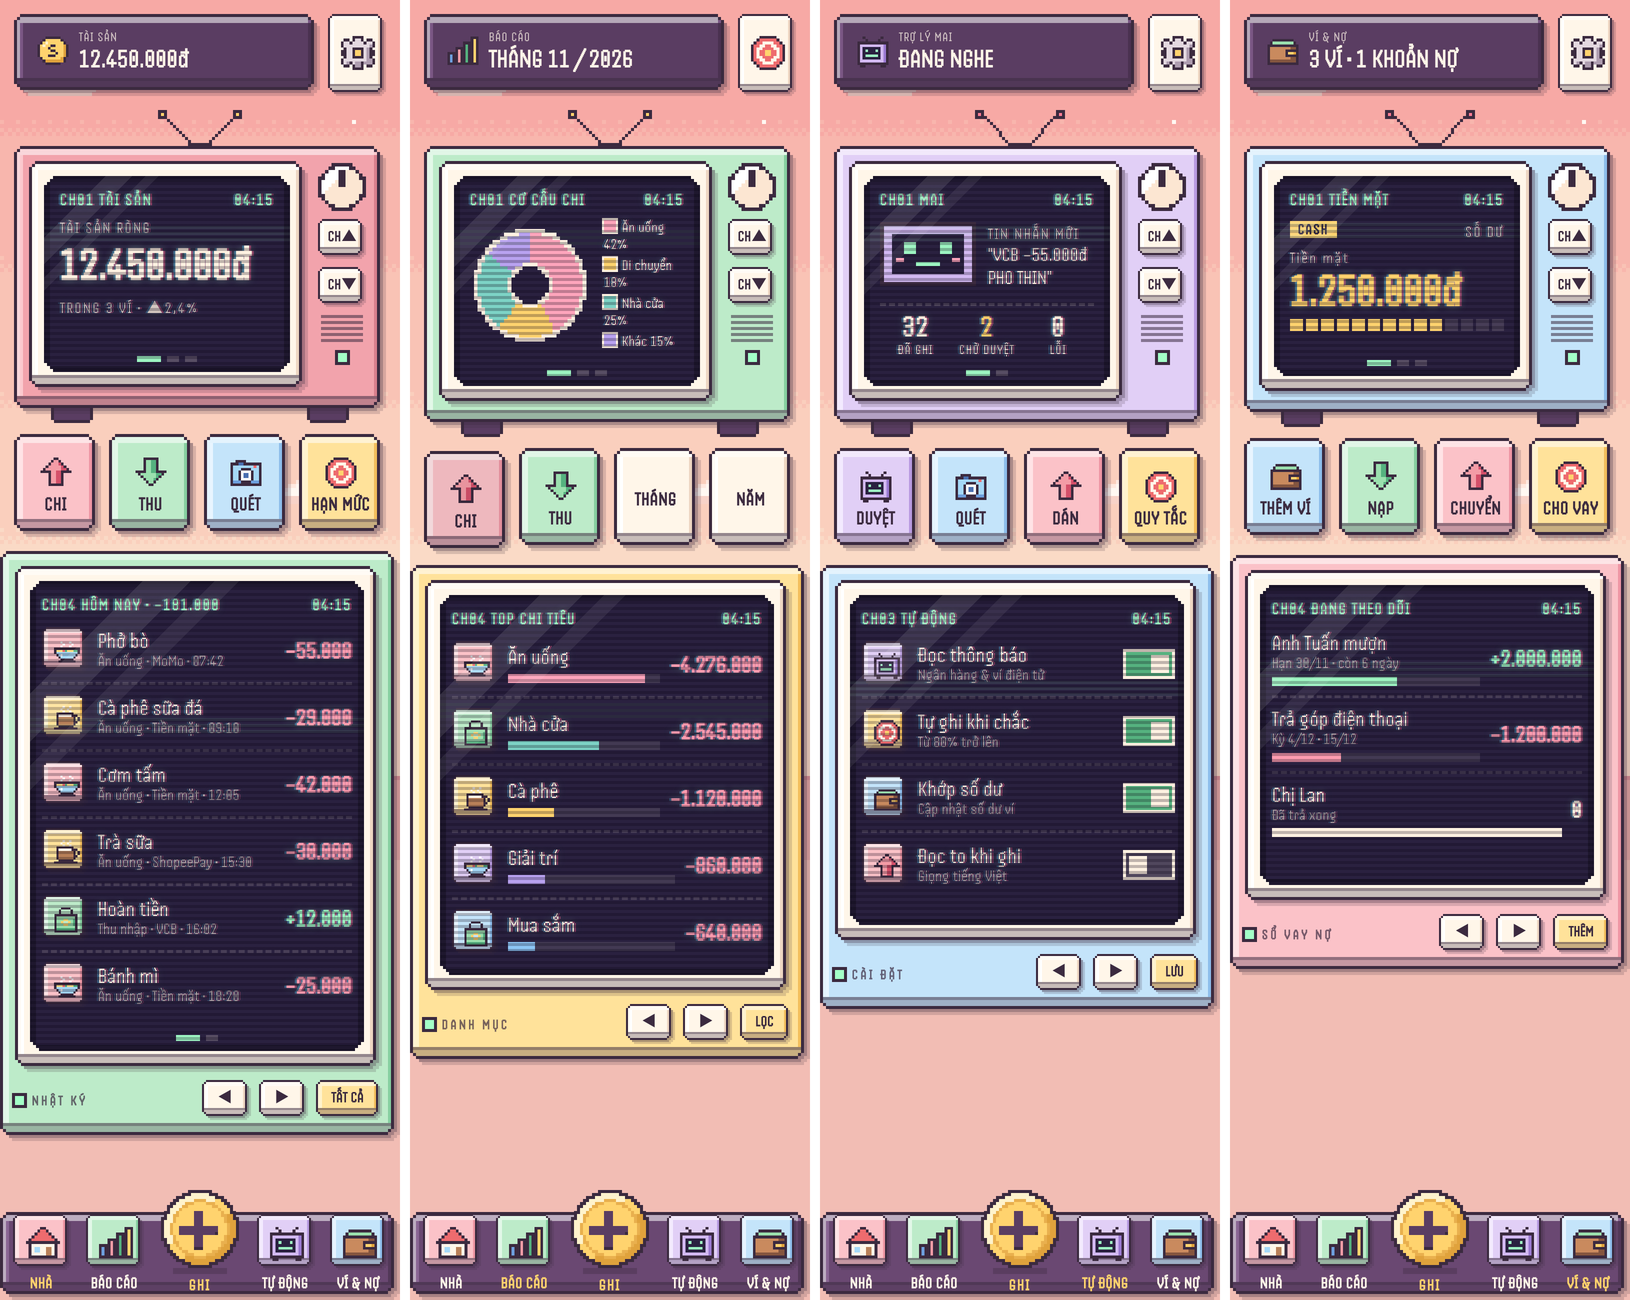
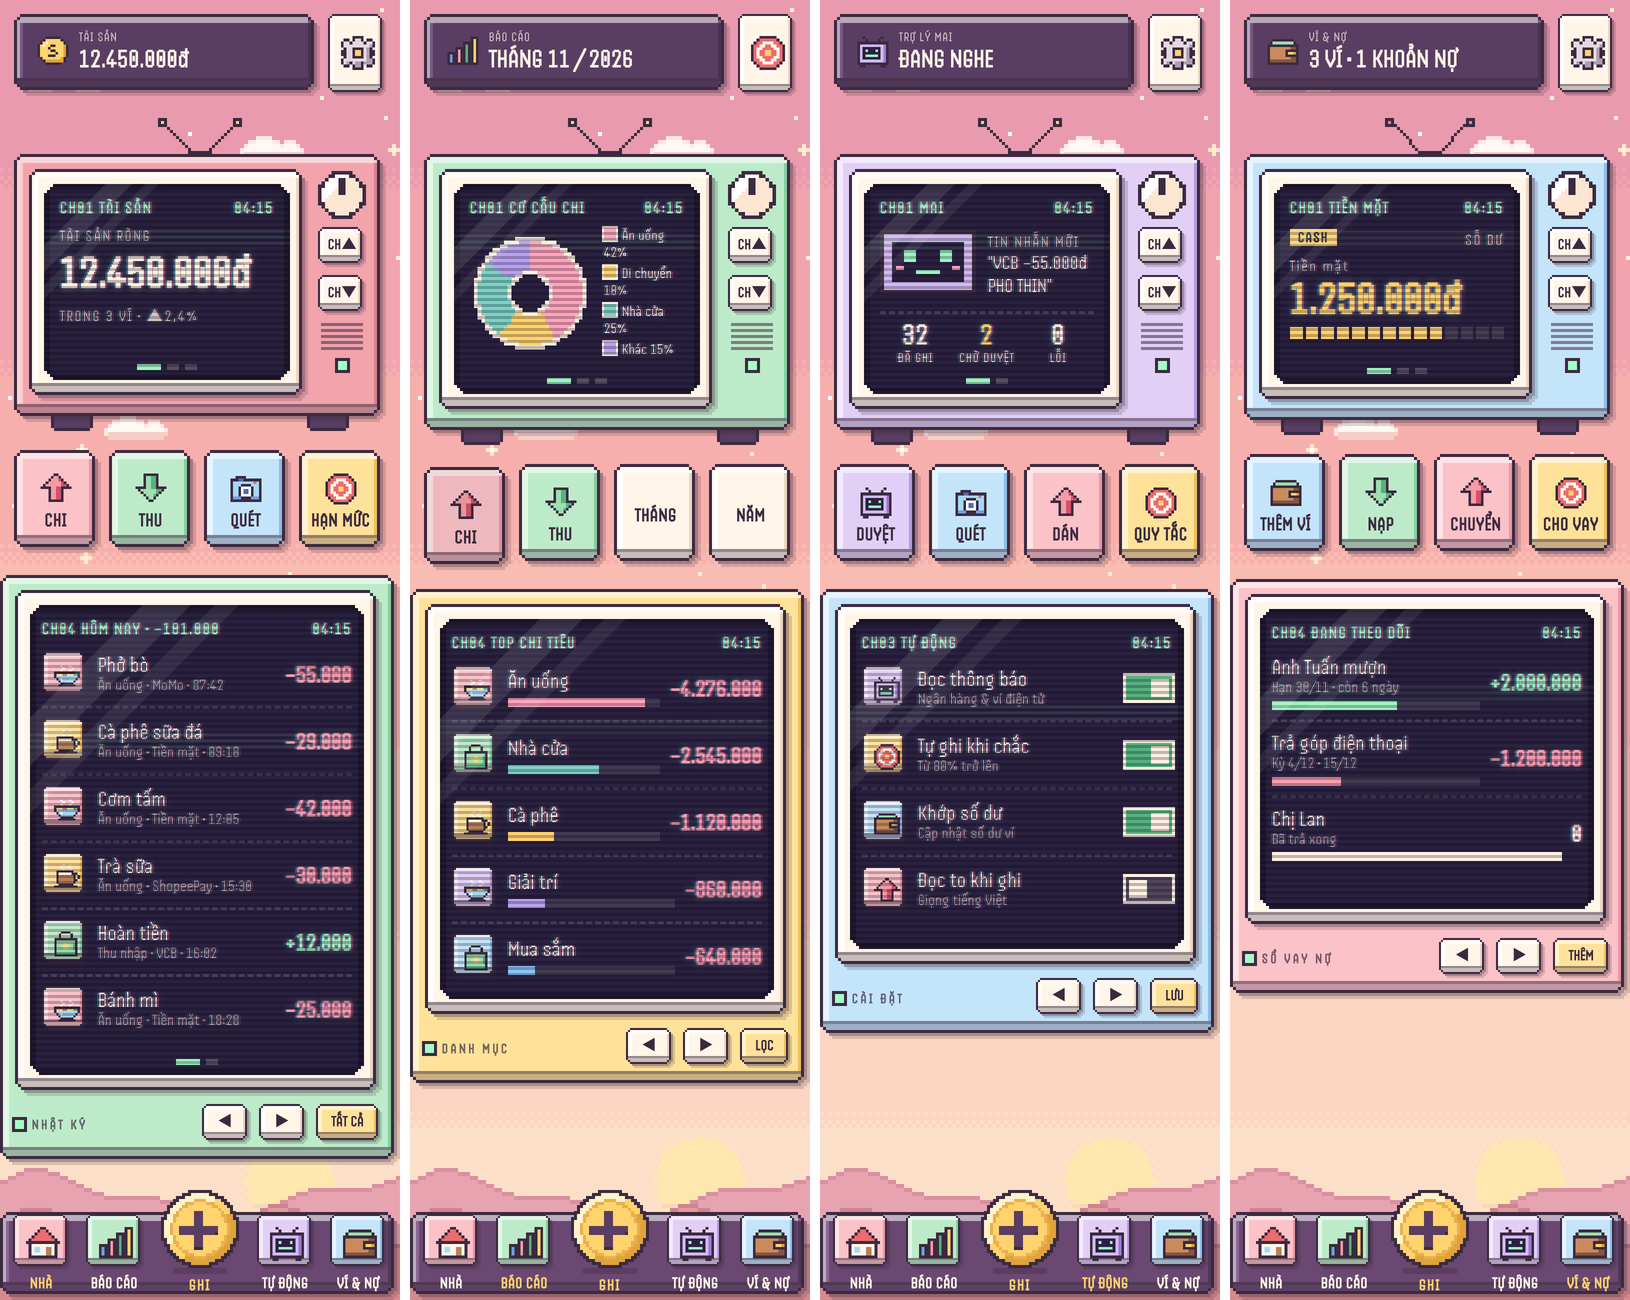
Pixel UI mockup: animated sky with layered drifting clouds, twinkling stars, shooting star, birds, sunset sun and 3-layer hills
Claude-Session: https://claude.ai/code/session_01FJNvN5z83tJBi6FoMbuiCK

diff --git a/design/pixel-ui/mock.html b/design/pixel-ui/mock.html
@@ -13,8 +13,8 @@
 *{box-sizing:border-box;margin:0;padding:0}
 html,body{background:#F2BDB4}
 body{font-family:Handjet,system-ui,sans-serif;color:var(--ink);font-size:20px;width:400px;min-height:1300px;position:relative;overflow:hidden;letter-spacing:.02em}
-#sky{position:absolute;inset:0;z-index:0;image-rendering:pixelated}
-.app{position:relative;z-index:1;padding:14px 14px 130px;display:flex;flex-direction:column;gap:14px}
+#sky{position:absolute;left:0;top:0;z-index:0;image-rendering:pixelated}
+.app{position:relative;z-index:1;padding:14px 14px 130px;display:flex;flex-direction:column;gap:22px}
 .px{border-style:solid;border-width:calc(var(--S)*5) calc(var(--S)*6) calc(var(--S)*7) calc(var(--S)*5);border-image-slice:5 6 7 5 fill;border-image-repeat:stretch;image-rendering:pixelated}
 .row{display:flex;align-items:center;gap:8px}
 .ico{width:calc(var(--S)*12);height:calc(var(--S)*12);image-rendering:pixelated;flex:none}
@@ -214,22 +214,6 @@ document.querySelectorAll("img[data-i]").forEach(el=>{
  c.fillStyle="#5A3D62";c.fillRect(12,7,3,13);c.fillRect(7,12,13,3);
  c.fillStyle="#3B2A3F";c.fillRect(12,19,3,1);c.fillRect(19,14,1,1);c.fillRect(7,15,5,0);
 })();
-// ---------- Bầu trời: dải màu + dithering + mây + đồi (vẽ mới) ----------
-(function(){const cv=document.getElementById("sky"),g=cv.getContext("2d"),W=100,H=215;
- const bands=["#F7A9A5","#F8B6AD","#F9C3B5","#FACFBD","#FADAC6"];
- const bh=34;
- for(let y=0;y<H;y++){const b=Math.min(bands.length-1,Math.floor(y/bh)),t=y%bh;
-  for(let x=0;x<W;x++){let c=bands[b];
-   if(t>=bh-4&&b<bands.length-1&&((x+y)%2===0)&&(t>=bh-2||x%4===0))c=bands[b+1];
-   g.fillStyle=c;g.fillRect(x,y,1,1)}}
- const cloud=["....wwww..........","..wwhhhhww...www..",".whhhhhhhhwwwhhhw.","whhhhhhhhhhhhhhhhw","wsssssssssssssssss",".ssssssssssssssss."];
- const cc={w:"#FFE9E0",h:"#FFF8F2",s:"#F7D2C8"};
- [[6,18],[60,44],[24,80],[70,120]].forEach(([ox,oy])=>cloud.forEach((r,y)=>[...r].forEach((ch,x)=>{if(cc[ch]){g.fillStyle=cc[ch];g.fillRect(ox+x,oy+y,1,1)}})));
- g.fillStyle="#FFF8F2";[[40,10],[88,30],[15,58],[92,96],[50,150]].forEach(([x,y])=>{g.fillRect(x,y,1,1)});
- for(let x=0;x<W;x++){const h=Math.round(6+4*Math.sin(x/9)+2*Math.sin(x/4));for(let y=H-h-20;y<H;y++){g.fillStyle=y===H-h-20?"#D98F94":"#E8A9A5";g.fillRect(x,y,1,1)}}
- cv.style.width="400px";cv.style.height="860px";
-})();
-
 // ---------- TV CRT pixel dùng chung cho mọi mục (vẽ mới) ----------
 function decorate(root){
   root.querySelectorAll("[data-f]").forEach(el=>{
@@ -387,5 +371,41 @@ const _build=buildTV;
 buildTV=function(el,cfg){if(cfg.after){cfg.ch=cfg.ch.map(f=>()=>{setTimeout(cfg.after,20);return f()})}return _build(el,cfg)};
 document.querySelectorAll(".dk").forEach((d,i)=>d.onclick=()=>go(NAMES[i]));
 go((location.hash.match(/s=(\w+)/)||[])[1]||"home");
+// ---------- Bầu trời: dải màu dithering, mặt trời, đồi nhiều lớp, mây trôi nhiều tầng, sao lấp lánh, sao băng, chim (vẽ mới) ----------
+(function(){const cv=document.getElementById("sky"),W=100,H=Math.ceil(document.body.scrollHeight/4)||325;cv.width=W;cv.height=H;
+ cv.style.width=W*4+"px";cv.style.height=H*4+"px";const g=cv.getContext("2d");
+ const base=document.createElement("canvas");base.width=W;base.height=H;const b=base.getContext("2d");
+ const P=(c,x,y,col)=>{c.fillStyle=col;c.fillRect(x,y,1,1)};
+ const bands=["#E99AAE","#F1A4AE","#F7AFAD","#F9BCB2","#FAC9B9","#FBD5C1","#FCDFC9"];const bh=Math.ceil(H/bands.length);
+ for(let y=0;y<H;y++){const i=Math.min(bands.length-1,Math.floor(y/bh)),t=y%bh;for(let x=0;x<W;x++){let c=bands[i];
+   if(i<bands.length-1&&t>=bh-5){const k=bh-t;if((k<=2&&(x+y)%2===0)||(k>2&&(x%2===0&&y%2===0)))c=bands[i+1]}P(b,x,y,c)}}
+ // mặt trời hoàng hôn sau đồi, có viền sáng
+ const sx=72,sy=H-30;for(let y=-14;y<=14;y++)for(let x=-14;x<=14;x++){const d=Math.hypot(x,y);
+   if(d<=11)P(b,sx+x,sy+y,(y>3&&y%3===0)?"#FBD5C1":"#FFE7B0");else if(d<=13&&(x+y)%2===0)P(b,sx+x,sy+y,"#FFE2C2")}
+ // đồi 3 lớp
+ [[26,"#E7A3B0","#D98FA0",5,2,.07],[19,"#E39A9E","#CE8390",4,1,.11],[11,"#D58A8F","#BE7380",3,1,.15]].forEach(([off,c1,c2,a1,a2,f])=>{
+   for(let x=0;x<W;x++){const h=Math.round(off+a1*Math.sin(x*f+off)+a2*Math.sin(x*f*2.7));for(let y=H-h;y<H;y++)P(b,x,y,y===H-h?c2:c1)}});
+ // mây
+ const CL={big:["......wwww..............","....wwhhhhww....wwww....","...whhhhhhhhw..whhhhw...",".wwhhhhhhhhhhwwhhhhhhww.","whhhhhhhhhhhhhhhhhhhhhhw","whhhhhhhhhhhhhhhhhhhhhhw","wsssssssssssssssssssssss",".ssssssssssssssssssssss.","...ssssss......ssssss..."],
+   mid:["....wwww........","..wwhhhhww.www..",".whhhhhhhhwhhhw.","whhhhhhhhhhhhhhw","wsssssssssssssss",".ssssssssssssss."],
+   sm:["..www....",".whhhwww.","whhhhhhhw","sssssssss"]};
+ const CC={w:"#FFE9E3",h:"#FFF8F3",s:"#F6CFC8"};
+ const clouds=[];const add=(t,x,y,sp)=>clouds.push({t,x,y,sp});
+ add("big",4,14,.05);add("mid",60,34,.09);add("sm",30,6,.14);add("big",70,74,.05);add("sm",12,58,.14);add("mid",26,104,.09);add("sm",80,128,.14);add("mid",-4,150,.09);add("big",50,180,.05);add("sm",36,214,.14);add("mid",76,240,.09);
+ const stars=[];for(let i=0;i<60;i++)stars.push({x:(i*37+11)%W,y:(i*53+7)%Math.floor(H*.75),p:i%7,big:i%3===0});
+ const birds=[{x:20,y:46,sp:.25},{x:28,y:50,sp:.25},{x:24,y:43,sp:.25}];
+ let tick=0,shoot=null;
+ function draw(){g.drawImage(base,0,0);
+  stars.forEach(s=>{const ph=(tick+s.p*3)%21;if(ph>15)return;const c=ph<5?"#FFFFFF":"#FFEFD8";P(g,s.x,s.y,c);
+    if(s.big&&ph<8){[[1,0],[-1,0],[0,1],[0,-1]].forEach(([dx,dy])=>P(g,s.x+dx,s.y+dy,"#FFE9C8"));if(ph<3)[[2,0],[-2,0],[0,2],[0,-2]].forEach(([dx,dy])=>P(g,s.x+dx,s.y+dy,"rgba(255,255,255,.6)"))}});
+  if(!shoot&&tick%90===40)shoot={x:90,y:8,l:0};
+  if(shoot){for(let i=0;i<6;i++)P(g,shoot.x+i,shoot.y-Math.floor(i/2),i===0?"#FFFFFF":"rgba(255,246,233,"+(1-i/6)+")");shoot.x-=2;shoot.y+=1;if(shoot.x<-6)shoot=null}
+  clouds.forEach(c=>{const s=CL[c.t];const w=s[0].length;let x=Math.round(c.x)%(W+w);if(x<-w)x+=W+w;x=x>W?x-(W+w):x;
+    s.forEach((r,y)=>[...r].forEach((ch,i)=>{if(CC[ch])P(g,x+i,c.y+y,CC[ch])}));c.x+=c.sp});
+  birds.forEach(bd=>{const f=Math.floor(tick/3)%2,x=Math.round(bd.x)%(W+10)-5;
+    if(f){P(g,x,bd.y,"#8C5A70");P(g,x+1,bd.y+1,"#8C5A70");P(g,x+2,bd.y,"#8C5A70")}else{P(g,x,bd.y+1,"#8C5A70");P(g,x+1,bd.y,"#8C5A70");P(g,x+2,bd.y+1,"#8C5A70")}bd.x+=bd.sp});
+  tick++}
+ draw();if(!location.hash.includes("still"))_si?_si(draw,160):setInterval(draw,160);
+})();
 </script>
 </body></html>
